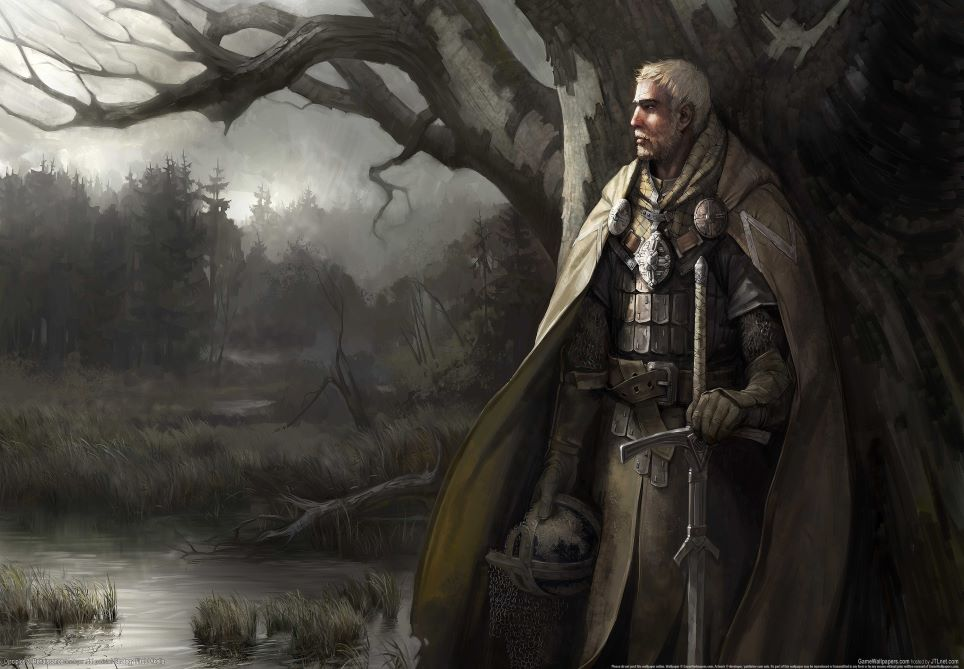
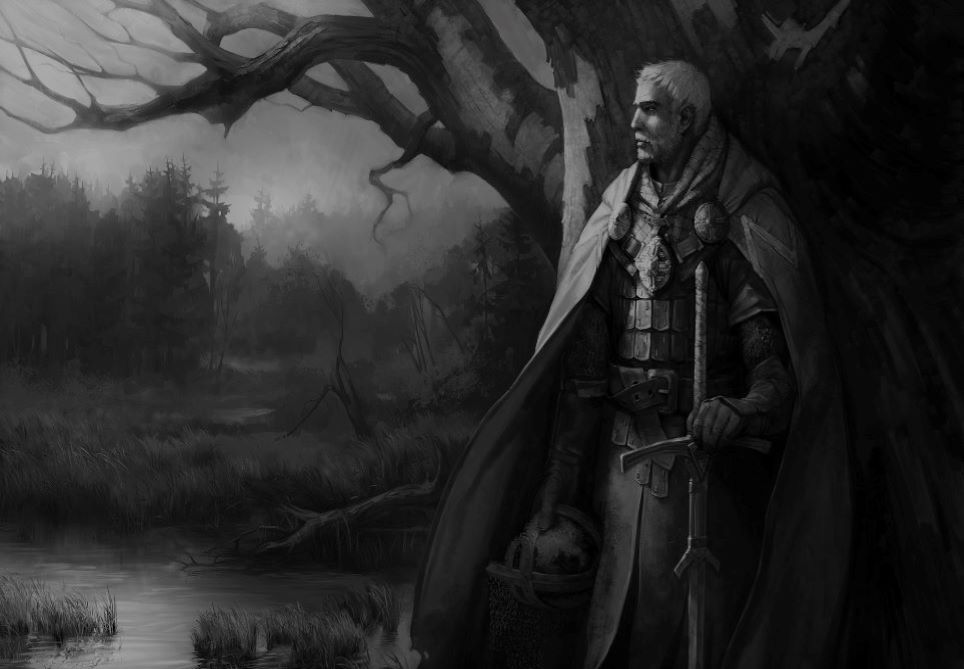
edited css

diff --git a/CombatWin.js b/CombatWin.js
@@ -156,8 +156,20 @@ export default class CombatWin {
       // загружаем заставку перед началом боя
       this.modalWindow = this._elem.querySelector( '.modal' );
       this.modalWindow.classList.add( 'loading' );
-      const buttonFight = createElem( `<a href="#" class="btn_op">Начать Бой</a>` );
-      this.modalWindow.append( buttonFight );
+      const preloaderFight = createElem( `<div class="loading">
+      <div class="header_result">
+        <div class="name_game">Command Combat</div><div class="emblem"></div>
+      </div>
+      <div class="winner_info">
+        <div class="info_congratulation"><p>Да начнется битва и пусть победит сильнейший!</p></div>
+      </div>
+      <div class="footer_result">
+        <ul class="menu_result">
+          <li class="start_combat"><a href="#" class="btn_op">НАЧАТЬ БОЙ</a></li></ul>
+      </div>
+    </div>` );
+      this.modalWindow.append( preloaderFight );
+      const buttonFight = this.modalWindow.querySelector( '.start_combat' );
       buttonFight.addEventListener( 'click', this.startFight );
 
       // формируем слоты экземпляры объектов юнитов для каждого игрока и общий слот всех юнитов
@@ -193,7 +205,7 @@ export default class CombatWin {
     startFight = () => {
       // вставляем звук начала боя
       this.menuSound.src = `${soundsMenu.startBattle}`;
-      this.modalWindow.classList.remove( 'loading' );
+      this.modalWindow.innerHTML = '';
       this.modalWindow.remove();
       this.doAction();
 

diff --git a/index2.html b/index2.html
@@ -14,22 +14,16 @@
     <div class="main_container">
       <div class="big_container">
         <div class="container">
-          <div class="result_win">
+          <div class="loading">
             <div class="header_result">
               <div class="name_game">Command Combat</div><div class="emblem"></div>
             </div>
             <div class="winner_info">
-              <div class="info_player">Player_1</div>
-              <div class="info_nickname">Artur_1</div>
-              <div class="info_race">Empire</div>
-              <div class="info_congratulation"><p>Вы достойно сражались и ваша команда бойцов отлично подготовлена.<br>
-                <br>Вы достойны победы, поздравляем!</p>
-              </div>
+              <div class="info_congratulation"><p>Да начнется битва и пусть победит сильнейший!</p></div>
             </div>
             <div class="footer_result">
               <ul class="menu_result">
-                <li class="start_newgame"><a href="#" class="btn_op">НОВАЯ ИГРА</a></li>
-                <li class="exit_game"><a href="#" class="btn_op">ВЫХОД</a></li></ul>
+                <li class="start_combat"><a href="#" class="btn_op">НАЧАТЬ БОЙ</a></li></ul>
             </div>
           </div>
           </div>

diff --git a/style.css b/style.css
@@ -1297,10 +1297,8 @@ a:hover {
     height: 669px;
     width: 964px;
     z-index: 700;
-    background: url('./img/race_modal_pl2.jpg');
-    filter: grayscale(0.7);
-    opacity: 0.6;
-    margin-bottom: 30px;
+    background: url('./img/fone_nobody.jpg');
+    margin-bottom: 50px;
 }
 
 .active_unit {
@@ -1317,7 +1315,6 @@ a:hover {
     height: 669px;
     width: 964px;
     background: url('./img/fone_final.jpg');
-    filter: grayscale(0.7);
 }
 
 .menu_final {
